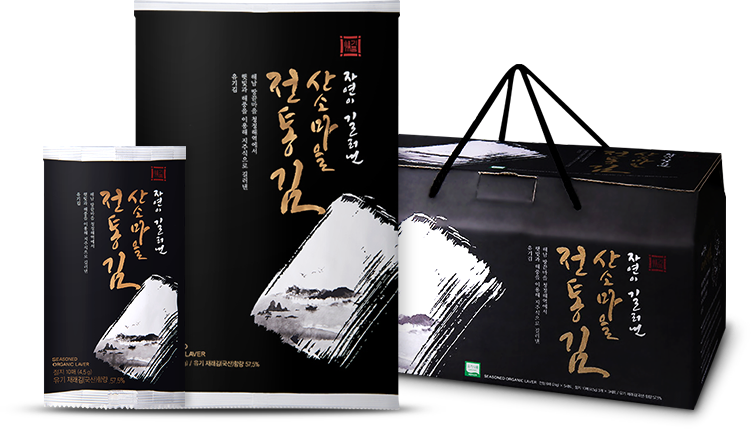
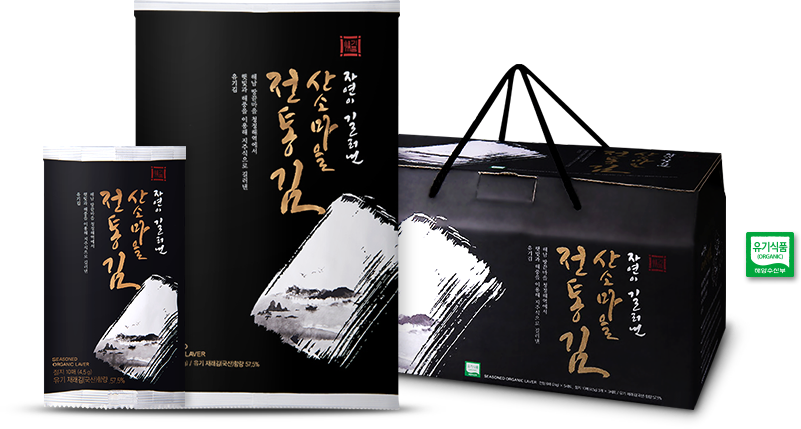
마이그레이션 > 원포원 > 푸드 수정 및 네티브 가이드 수정

diff --git a/_ui/publishing_guide_migration_netive.html b/_ui/publishing_guide_migration_netive.html
@@ -10293,7 +10293,7 @@
 					  <td>&nbsp;</td>
 					  <td>&nbsp;</td>
 					  <td>갖은 양념이 어우러진 정기품 녹차쌈장</td>
-					  <td class="file"><a href="/_ui/responsive/html/product/one-for-one/food/e-comm_6584.html" target="_blank">e-comm_6584.html</a></td>
+					  <td class="file"><a href="/_ui/responsive/html/product/one-for-one/food/e-comm_LP_6584_10_Jungipum_Greentea_Ssamjang.html" target="_blank">e-comm_LP_6584_10_Jungipum_Greentea_Ssamjang.html</a></td>
 					  <td>&nbsp;</td>
 					  <td class="file"><a href="/_ui/responsive/html/product/one-for-one/food/LP_6584_10_Jungipum_Greentea_Ssamjang.html" target="_blank">LP_6584_10_Jungipum_Greentea_Ssamjang.html</a></td>
 					  <td class="taCenter">B</td>
@@ -10312,7 +10312,7 @@
 					  <td>&nbsp;</td>
 					  <td>&nbsp;</td>
 					  <td>정기품 북촌옥 참기름, 들기름 세트</td>
-					  <td class="file"><a href="/_ui/responsive/html/product/one-for-one/food/e-comm_9421.html" target="_blank">e-comm_9421.html</a></td>
+					  <td class="file"><a href="/_ui/responsive/html/product/one-for-one/food/e-comm_LP_9421_10_Jungipum_Perilla_Oil_Set.html" target="_blank">e-comm_LP_9421_10_Jungipum_Perilla_Oil_Set.html</a></td>
 					  <td>&nbsp;</td>
 					  <td class="file"><a href="/_ui/responsive/html/product/one-for-one/food/LP_9421_10_Jungipum_Perilla_Oil_Set.html" target="_blank">LP_9421_10_Jungipum_Perilla_Oil_Set.html</a></td>
 					  <td class="taCenter">B</td>
@@ -10331,7 +10331,7 @@
 					  <td>&nbsp;</td>
 					  <td>&nbsp;</td>
 					  <td>정기품 북촌옥 들기름</td>
-					  <td class="file"><a href="/_ui/responsive/html/product/one-for-one/food/e-comm_9420.html" target="_blank">e-comm_9420.html</a></td>
+					  <td class="file"><a href="/_ui/responsive/html/product/one-for-one/food/e-comm_LP_9420_10_Jungipum_Perilla_Oil.html" target="_blank">e-comm_LP_9420_10_Jungipum_Perilla_Oil.html</a></td>
 					  <td>&nbsp;</td>
 					  <td class="file"><a href="/_ui/responsive/html/product/one-for-one/food/LP_9420_10_Jungipum_Perilla_Oil.html" target="_blank">LP_9420_10_Jungipum_Perilla_Oil.html</a></td>
 					  <td class="taCenter">B</td>
@@ -10350,7 +10350,7 @@
 					  <td>&nbsp;</td>
 					  <td>&nbsp;</td>
 					  <td>정기품 북촌옥 참기름</td>
-					  <td class="file"><a href="/_ui/responsive/html/product/one-for-one/food/e-comm_9408.html" target="_blank">e-comm_9408.html</a></td>
+					  <td class="file"><a href="/_ui/responsive/html/product/one-for-one/food/e-comm_LP_9408_10_Jungipum_Sesame_Oil.html" target="_blank">e-comm_LP_9408_10_Jungipum_Sesame_Oil.html</a></td>
 					  <td>&nbsp;</td>
 					   <td class="file"><a href="/_ui/responsive/html/product/one-for-one/food/LP_9408_10_Jungipum_Sesame_Oil.html" target="_blank">LP_9408_10_Jungipum_Sesame_Oil.html</a></td>
 					  <td class="taCenter">B</td>
@@ -10407,7 +10407,7 @@
 					  <td>&nbsp;</td>
 					  <td>&nbsp;</td>
 					  <td>정기품 송화소금</td>
-					  <td class="file"><a href="/_ui/responsive/html/product/one-for-one/food/e-comm_9770.html" target="_blank">e-comm_9770.html</a></td>
+					  <td class="file"><a href="/_ui/responsive/html/product/one-for-one/food/e-comm_LP_9770_10_Jungipum_Sonwha_Salt.html" target="_blank">e-comm_LP_9770_10_Jungipum_Sonwha_Salt.html</a></td>
 					  <td>&nbsp;</td>
 					  <td class="file"><a href="/_ui/responsive/html/product/one-for-one/food/LP_9770_10_Jungipum_Sonwha_Salt.html" target="_blank">LP_9770_10_Jungipum_Sonwha_Salt.html</a></td>
 					  <td class="taCenter">B</td>
@@ -10635,7 +10635,7 @@
 					  <td>&nbsp;</td>
 					  <td>&nbsp;</td>
 					  <td>가쓰오부시로 맛을 낸 정기품 양조간장</td>
-					  <td class="file"><a href="/_ui/responsive/html/product/one-for-one/food/e-comm_6585.html" target="_blank">e-comm_6585.html</a></td>
+					  <td class="file"><a href="/_ui/responsive/html/product/one-for-one/food/e-comm_LP_6585_10_Jungipum_Brewed_Soy_Sauce.html" target="_blank">e-comm_LP_6585_10_Jungipum_Brewed_Soy_Sauce.html</a></td>
 					  <td>&nbsp;</td>
 					  <td class="file"><a href="/_ui/responsive/html/product/one-for-one/food/LP_6585_10_Jungipum_Brewed_Soy_Sauce.html" target="_blank">LP_6585_10_Jungipum_Brewed_Soy_Sauce.html</a></td>
 					  <td class="taCenter">B</td>
@@ -10654,7 +10654,7 @@
 					  <td>&nbsp;</td>
 					  <td>&nbsp;</td>
 					  <td>콩메주로 띄워만든 정기품 우렁된장</td>
-					  <td class="file"><a href="/_ui/responsive/html/product/one-for-one/food/e-comm_6583.html" target="_blank">e-comm_6583.html</a></td>
+					  <td class="file"><a href="/_ui/responsive/html/product/one-for-one/food/e-comm_LP_6583_10_Jungipum_Soybean_Paste_With_Snails.html" target="_blank">e-comm_LP_6583_10_Jungipum_Soybean_Paste_With_Snails.html</a></td>
 					  <td>&nbsp;</td>
 					  <td class="file"><a href="/_ui/responsive/html/product/one-for-one/food/LP_6583_10_Jungipum_Soybean_Paste_With_Snails.html" target="_blank">LP_6583_10_Jungipum_Soybean_Paste_With_Snails.html</a></td>
 					  <td class="taCenter">B</td>
@@ -10673,7 +10673,7 @@
 					  <td>&nbsp;</td>
 					  <td>&nbsp;</td>
 					  <td>발아현미가 들어간 정기품 찹쌀 고추장</td>
-					  <td class="file"><a href="/_ui/responsive/html/product/one-for-one/food/e-comm_6582.html" target="_blank">e-comm_6582.html</a></td>
+					  <td class="file"><a href="/_ui/responsive/html/product/one-for-one/food/e-comm_LP_6582_10_Jungipum_Rice_Red_Pepper_Paste.html" target="_blank">e-comm_LP_6582_10_Jungipum_Rice_Red_Pepper_Paste.html</a></td>
 					  <td>&nbsp;</td>
 					  <td class="file"><a href="/_ui/responsive/html/product/one-for-one/food/LP_6582_10_Jungipum_Rice_Red_Pepper_Paste.html" target="_blank">LP_6582_10_Jungipum_Rice_Red_Pepper_Paste.html</a></td>
 					  <td class="taCenter">B</td>
@@ -10693,7 +10693,7 @@
 					  <td>&nbsp;</td>
 					  <td>&nbsp;</td>
 					  <td>정기품 산소마을 전통김</td>
-					  <td class="file"><a href="/_ui/responsive/html/product/one-for-one/food/e-comm_6886.html" target="_blank">e-comm_6886.html</a></td>
+					  <td class="file"><a href="/_ui/responsive/html/product/one-for-one/food/e-comm_LP_6886_10_Jungipum_Kim.html" target="_blank">e-comm_LP_6886_10_Jungipum_Kim.html</a></td>
 					  <td>&nbsp;</td>
 					  <td class="file"><a href="/_ui/responsive/html/product/one-for-one/food/LP_6886_10_Jungipum_Kim.html" target="_blank">LP_6886_10_Jungipum_Kim.html</a></td>
 					  <td class="taCenter">B</td>
@@ -10788,7 +10788,7 @@
 					  <td>&nbsp;</td>
 					  <td>&nbsp;</td>
 					  <td>뉴트리 클로렐라 컵면 (3박스 번들 주문)</td>
-					  <td class="file"><a href="/_ui/responsive/html/product/one-for-one/food/e-comm_6744.html" target="_blank">e-comm_6744.html</a></td>
+					  <td class="file"><a href="/_ui/responsive/html/product/one-for-one/food/e-comm_HL_6744_Nutri_cblorella_cup_nooddles_3Box_bundle.html" target="_blank">e-comm_HL_6744_Nutri_cblorella_cup_nooddles_3Box_bundle.html</a></td>
 					  <td>&nbsp;</td>
 					  <td class="file"><a href="/_ui/responsive/html/product/one-for-one/food/HL_6744_Nutri_cblorella_cup_nooddles_3Box_bundle.html" target="_blank">HL_6744_Nutri_cblorella_cup_nooddles_3Box_bundle.html</a></td>
 					  <td class="taCenter">B</td>
@@ -10807,7 +10807,7 @@
 					  <td>&nbsp;</td>
 					  <td>&nbsp;</td>
 					  <td>뉴트리 김치찌개면 (16개입) (AP 픽업 주문)</td>
-					  <td class="file"><a href="/_ui/responsive/html/product/one-for-one/food/e-comm_9978.html" target="_blank">e-comm_9978.html</a></td>
+					  <td class="file"><a href="/_ui/responsive/html/product/one-for-one/food/e-comm_HL_9978_10_Nutri_Kimchi_stew_16_ABC_pickup_order.html" target="_blank">e-comm_HL_9978_10_Nutri_Kimchi_stew_16_ABC_pickup_order.html</a></td>
 					  <td>&nbsp;</td>
 					  <td class="file"><a href="/_ui/responsive/html/product/one-for-one/food/HL_9978_10_Nutri_Kimchi_stew_16_ABC_pickup_order.html" target="_blank">HL_9978_10_Nutri_Kimchi_stew_16_ABC_pickup_order.html</a></td>
 					  <td class="taCenter">B</td>
@@ -10826,7 +10826,7 @@
 					  <td>&nbsp;</td>
 					  <td>&nbsp;</td>
 					  <td>뉴트리 김치찌개면 (16개입) (3박스 번들 주문)</td>
-					  <td class="file"><a href="/_ui/responsive/html/product/one-for-one/food/e-comm_9977.html" target="_blank">e-comm_9977.html</a></td>
+					  <td class="file"><a href="/_ui/responsive/html/product/one-for-one/food/e-comm_HL_9977_10_Nutri_Kimchi_stew_16_3box_bundle_order.html" target="_blank">e-comm_HL_9977_10_Nutri_Kimchi_stew_16_3box_bundle_order.html</a></td>
 					  <td>&nbsp;</td>
 					  <td class="file"><a href="/_ui/responsive/html/product/one-for-one/food/HL_9977_10_Nutri_Kimchi_stew_16_3box_bundle_order.html" target="_blank">HL_9977_10_Nutri_Kimchi_stew_16_3box_bundle_order.html</a></td>
 					  <td class="taCenter">B</td>
@@ -10845,7 +10845,7 @@
 					  <td>&nbsp;</td>
 					  <td>&nbsp;</td>
 					  <td>뉴트리 짜장면 (AP픽업/ 1박스 배송주문)</td>
-					  <td class="file"><a href="/_ui/responsive/html/product/one-for-one/food/e-comm_5856.html" target="_blank">e-comm_5856.html</a></td>
+					  <td class="file"><a href="/_ui/responsive/html/product/one-for-one/food/e-comm_HL_5856_Nutri_jazang_nooddles_ABC_pickup_1box_delivery.html" target="_blank">e-comm_HL_5856_Nutri_jazang_nooddles_ABC_pickup_1box_delivery.html</a></td>
 					  <td>&nbsp;</td>
 					  <td class="file"><a href="/_ui/responsive/html/product/one-for-one/food/HL_5856_Nutri_jazang_nooddles_ABC_pickup_1box_delivery.html" target="_blank">HL_5856_Nutri_jazang_nooddles_ABC_pickup_1box_delivery.html</a></td>
 					  <td class="taCenter">B</td>
@@ -10864,7 +10864,7 @@
 					  <td>&nbsp;</td>
 					  <td>&nbsp;</td>
 					  <td>뉴트리 짜장면 (3박스 번들 주문)</td>
-					  <td class="file"><a href="/_ui/responsive/html/product/one-for-one/food/e-comm_6743.html" target="_blank">e-comm_6743.html</a></td>
+					  <td class="file"><a href="/_ui/responsive/html/product/one-for-one/food/e-comm_HL_6743_Nutri_jazang_nooddles_3Box_bundle.html" target="_blank">e-comm_HL_6743_Nutri_jazang_nooddles_3Box_bundle.html</a></td>
 					  <td>&nbsp;</td>
 					  <td class="file"><a href="/_ui/responsive/html/product/one-for-one/food/HL_6743_Nutri_jazang_nooddles_3Box_bundle.html" target="_blank">HL_6743_Nutri_jazang_nooddles_3Box_bundle.html</a></td>
 					  <td class="taCenter">B</td>
@@ -10883,7 +10883,7 @@
 					  <td>&nbsp;</td>
 					  <td>&nbsp;</td>
 					  <td>뉴트리 라면 (3박스 번들 주문)</td>
-					  <td class="file"><a href="/_ui/responsive/html/product/one-for-one/food/e-comm_6741.html" target="_blank">e-comm_6741.html</a></td>
+					  <td class="file"><a href="/_ui/responsive/html/product/one-for-one/food/e-comm_HL_6741_Nutri_Noodles_3Box_bundle.html" target="_blank">e-comm_HL_6741_Nutri_Noodles_3Box_bundle.html</a></td>
 					  <td>&nbsp;</td>
 					  <td class="file"><a href="/_ui/responsive/html/product/one-for-one/food/HL_6741_Nutri_Noodles_3Box_bundle.html" target="_blank">HL_6741_Nutri_Noodles_3Box_bundle.html</a></td>
 					  <td class="taCenter">B</td>
@@ -10902,7 +10902,7 @@
 					  <td>&nbsp;</td>
 					  <td>&nbsp;</td>
 					  <td>뉴트리 라면 (AP픽업/ 1박스 배송주문)</td>
-					  <td class="file"><a href="/_ui/responsive/html/product/one-for-one/food/e-comm_5298.html" target="_blank">e-comm_5298.html</a></td>
+					  <td class="file"><a href="/_ui/responsive/html/product/one-for-one/food/e-comm_HL_5298_Nutri_Noodles_ABC_Pickup_1Box_delivery.html" target="_blank">e-comm_HL_5298_Nutri_Noodles_ABC_Pickup_1Box_delivery.html</a></td>
 					  <td>&nbsp;</td>
 					  <td class="file"><a href="/_ui/responsive/html/product/one-for-one/food/HL_5298_Nutri_Noodles_ABC_Pickup_1Box_delivery.html" target="_blank">HL_5298_Nutri_Noodles_ABC_Pickup_1Box_delivery.html</a></td>
 					  <td class="taCenter">B</td>

diff --git a/_ui/responsive/theme-blue/css/akl-product02.css b/_ui/responsive/theme-blue/css/akl-product02.css
@@ -529,10 +529,11 @@ p, div, li span{word-break: keep-all;word-wrap: break-word;}
 .brown09{color:#682114;}
 
 .visual-area.type02.jungipum-kim{}
-.v-pro.kim-area{position:relative;}
-.v-pro.kim-area .organic-box{display: inline-block;position: absolute;top: 51%;right: 94px;}
-.v-pro.kim-area .organic-box ul{margin-left:25px;}
-.v-pro.kim-area .organic-box ul li{text-align:left;}
+.v-pro.kim-area{width: 100%; display: block;margin: 70px auto 0;}
+.v-pro.kim-area .img-wrap{display:inline-block;position:relative;width: initial;width: auto;}
+.v-pro.kim-area .injung{position: absolute;top: 66%;left: 100%;margin-left: -54px;width: 80px;text-align: left;}
+
+
 
 
 @media (max-width: 768px) {
@@ -657,8 +658,7 @@ p, div, li span{word-break: keep-all;word-wrap: break-word;}
 	
 	/*원포원*/	
 	.capsule-img-area em.txt br{display:none;} /* 라임트리 캡슐세트 */
-	.kim-area img.img{width:80%;}
-	.kim-area .organic-box img{width:80%;}
+	.v-pro.kim-area .img-wrap img{width:80%}
 
 }
 
@@ -670,8 +670,8 @@ p, div, li span{word-break: keep-all;word-wrap: break-word;}
 	.pormula-lst li{margin-right: 15px;}
 	.perl-water-lst > ul li .perl-area span img{width:85%;height:85%;}
 	
-	.kim-area img.img{width:90%;}
-	.kim-area .organic-box img{width:90%;}
+	.v-pro.kim-area .img-wrap img{width:90%}
+	.v-pro.kim-area .injung{left:97%;font-size:13px;}
 	
 	
 }
@@ -679,7 +679,8 @@ p, div, li span{word-break: keep-all;word-wrap: break-word;}
 	.capsule-new-area.new{padding-top: 35px;padding-left: 40px;}
 	.capsule-new-area.new span.lime-new{left:0;font-size: 16px;  width: 50px;height: 50px;line-height: 50px;}
 	.kim-area img.img{width:90%;}
-	.kim-area .organic-box img{width:90%;}
+	.v-pro.kim-area .img-wrap img{width:80%}
+	.v-pro.kim-area .injung{left:93%;}
 
 }
 
@@ -807,8 +808,9 @@ p, div, li span{word-break: keep-all;word-wrap: break-word;}
 	.capsule-new-area.new{padding-top: 35px;padding-left: 40px;}
 	.capsule-new-area.new span.lime-new{font-size: 16px;left:0;width: 50px;height:50px;line-height:50px}
 	
-	.kim-area .organic-box img{width:60%;}
-	.kim-area .organic-box ul li{font-size:12px;}
+	.v-pro.kim-area .img-wrap img{width:80%}
+	.v-pro.kim-area .img-wrap em{font-size:12px;}
+	
 }
 
 

diff --git a/_ui/responsive/html/product/one-for-one/food/LP_6886_10_Jungipum_Kim.html b/_ui/responsive/html/product/one-for-one/food/LP_6886_10_Jungipum_Kim.html
@@ -72,14 +72,10 @@
 													수십 년 전통을 지닌 장인기업의 공법과 노하우로 집에서 갓 구워낸 김 고유의 향과 바삭바삭함을 담았습니다.</p>	
 											</div>	
 											<div class="v-pro kim-area">
-												<span><img src="/_ui/responsive/theme-blue/images/akl_product/one-for-one/visual_top_6886.png" alt="정기품 산소마을 전통김 이미지" class="img"></span>
-												<div class="organic-box">
-													<span><img src="/_ui/responsive/theme-blue/images/akl_product/common/logo_organic.png" alt="기업 biz"></span>
-													<ul>
-														<li>해양 수산부</li>
-														<li>유기식품 인증</li>
-													</ul>
-												</div>
+												<span class="img-wrap">
+													<img src="/_ui/responsive/theme-blue/images/akl_product/one-for-one/visual_top_6886.png" alt="자연이 길러낸 산소마을 전통김 제품 이미지">
+													<em class="injung">해양수산부 유기식품 인증</em>
+												</span>												
 											</div>
 										</div>
 										<!-- //비주얼 영역 -->
@@ -91,7 +87,7 @@
 												<div class="advan-left v-top">
 													<div class="sie-box">
 														<div class="com-tit">
-															<em>엽체가 여리고 부드러운</em> <span class="red">최상급 원조</span>초사리 김
+															<em>엽체가 여리고 부드러운</em> <span class="red">최상급 원초</span> 초사리 김
 														</div>
 														<p class="com-txt">
 															최상급 원초로 알려진 초사리 김은 초겨울 김 채취가 시작되어 첫 사리(보름) 간에 생산된 김입니다.
